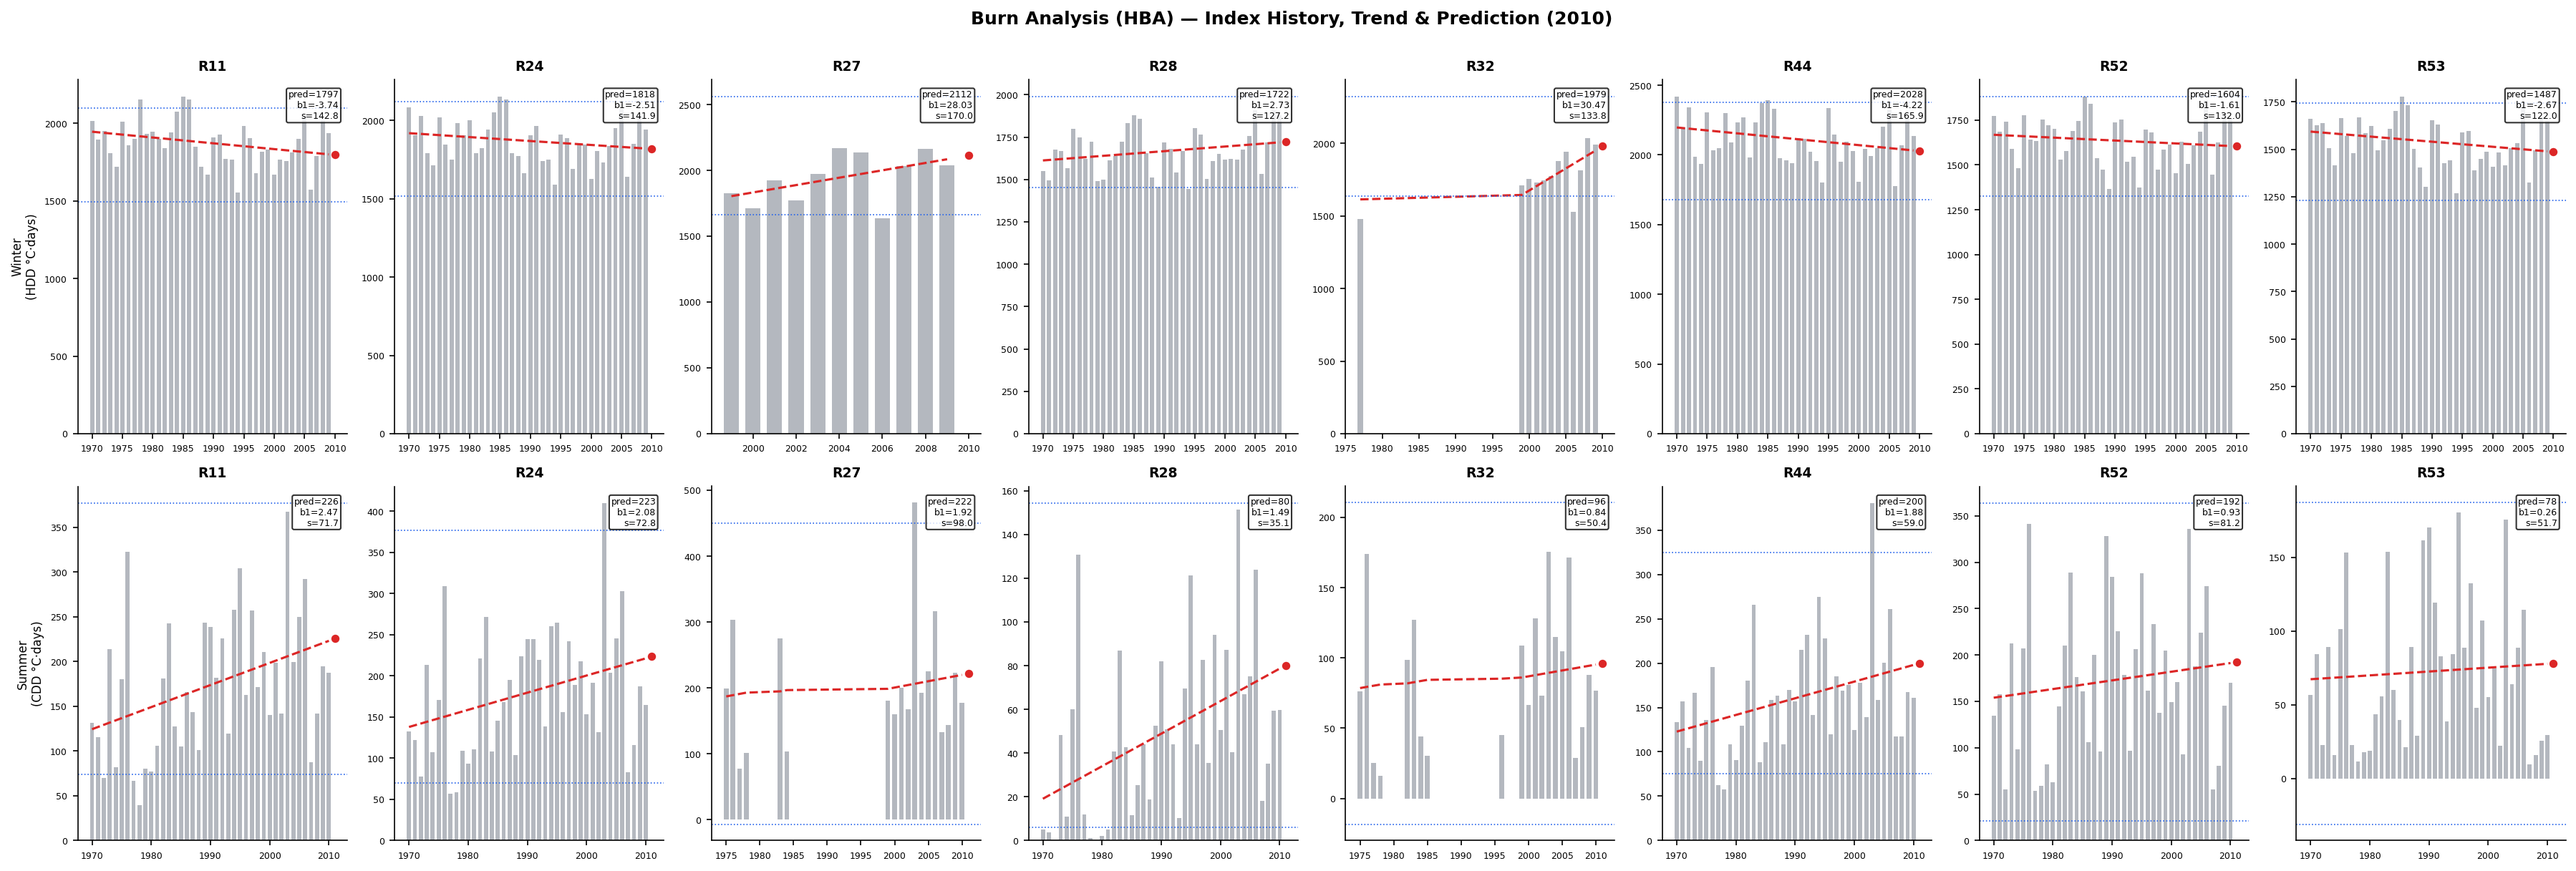
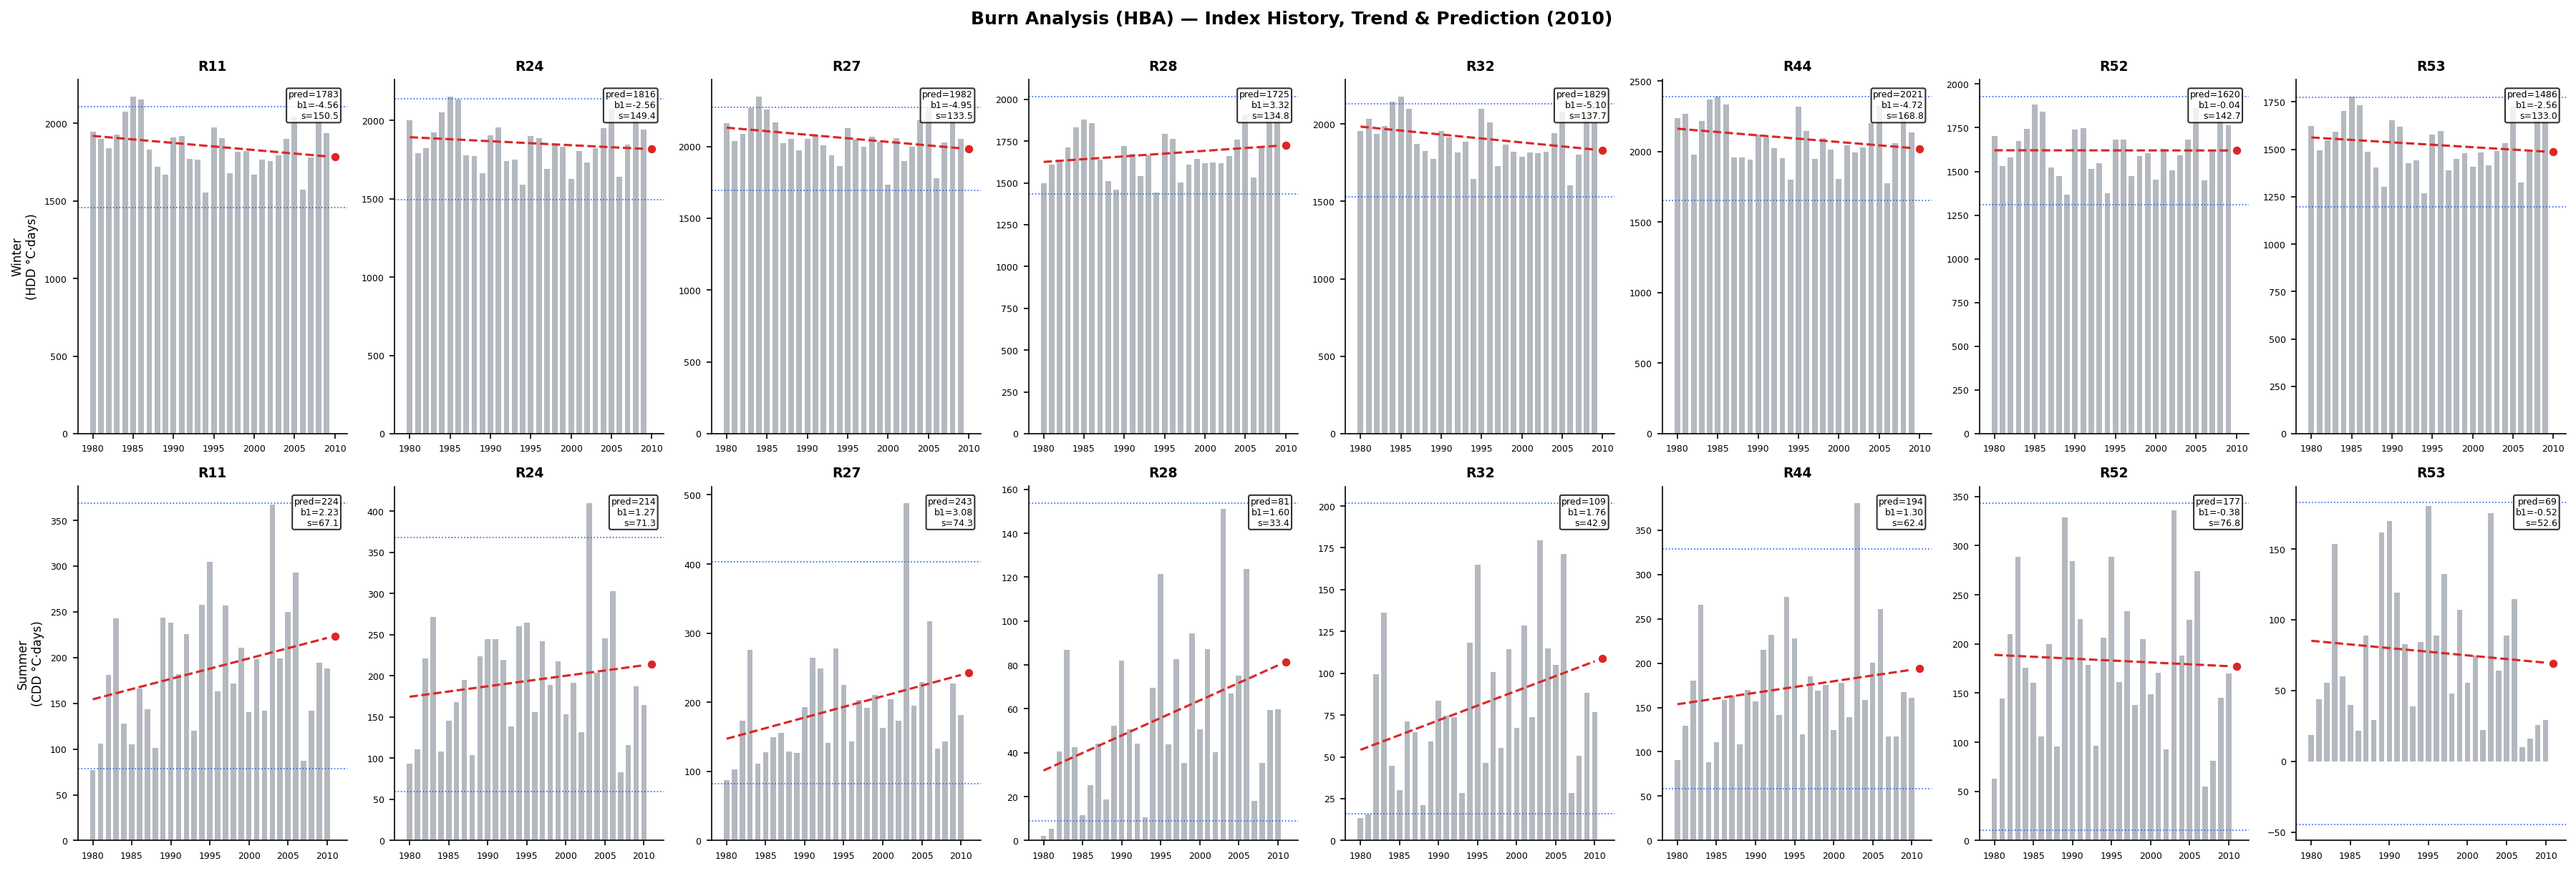
model changes to 1980

diff --git a/03_Models/AR.py b/03_Models/AR.py
@@ -10,7 +10,7 @@ where U_t ~ ARMA(p, q), d = 0 throughout.
 Design
 ───────
 Phase 1 — Specification selection  (once per region, pre-OOS)
-    Selection training : 1970 – 2008-12-31
+    Selection training : 1980-01-01 – 2008-12-31
     Validation         : 2009-01-01 – 2009-12-31
     Joint grid         : p,q ∈ 0..3, K ∈ 1..10 → 150 SARIMAX fits
                          (p=0, q=0 excluded)
@@ -54,6 +54,8 @@ PKL_DIR.mkdir(parents=True, exist_ok=True)
 SEL_TRAIN_END = pd.Timestamp("2008-12-31")
 VAL_START     = pd.Timestamp("2009-01-01")
 VAL_END       = pd.Timestamp("2009-12-31")
+TRAINING_START = pd.Timestamp("1980-01-01")
+TEMP_COL = "TAVG_imptd"
 
 # ── Phase 2: rolling OOS ──────────────────────────────────────────────────────
 CALIB_YEARS      = range(2010, 2024)
@@ -155,9 +157,9 @@ def select_spec(region: int, subset: pd.DataFrame) -> dict | None:
         print(f"  [SELECT|{region}] insufficient data")
         return None
 
-    train_y   = df_sel_train["T"].values.astype(float)
+    train_y   = df_sel_train[TEMP_COL].values.astype(float)
     train_doy = df_sel_train.index.dayofyear.values.astype(float)
-    val_y     = df_val["T"].values.astype(float)
+    val_y     = df_val[TEMP_COL].values.astype(float)
     val_doy   = df_val.index.dayofyear.values.astype(float)
 
     best_rmse = np.inf
@@ -218,11 +220,11 @@ def refit_and_forecast(region: int, calib_year: int,
     calib_end = pd.Timestamp(f"{calib_year}-12-31")
     df_calib  = subset.loc[:calib_end].copy()
 
-    if len(df_calib) < 365 or df_calib["T"].isna().any():
+    if len(df_calib) < 365 or df_calib[TEMP_COL].isna().any():
         return None
 
     t0        = datetime.datetime.now()
-    calib_y   = df_calib["T"].values.astype(float)
+    calib_y   = df_calib[TEMP_COL].values.astype(float)
     calib_doy = df_calib.index.dayofyear.values.astype(float)
     X_calib   = make_fourier(calib_doy, K)
 
@@ -307,24 +309,31 @@ def refit_and_forecast(region: int, calib_year: int,
 def main():
     overall_start = datetime.datetime.now()
 
-    raw = pd.read_csv(TEMP_DIR / "region_avg.csv", parse_dates=["date"])
+    raw = pd.read_csv(TEMP_DIR / "region_temp_extended.csv",
+                      parse_dates=["date"])
 
     region_data = {}
     for region in REGIONS:
         sub = (
             raw[raw["region_code"] == region]
-            .set_index("date")[["daily_avg_temperature"]]
+            .set_index("date")[[TEMP_COL]]
             .sort_index()
-            .rename(columns={"daily_avg_temperature": "T"})
         )
         if sub.empty:
             continue
+
+        sub = sub.loc[TRAINING_START:].copy()
+        if sub.empty:
+            print(f"  [DATA|{region}] no data from "
+                  f"{TRAINING_START.date()} forward")
+            continue
+
         full_idx = pd.date_range(
             sub.index.min(), sub.index.max(), freq="D"
         )
         sub = sub.reindex(full_idx)
         sub.index.name = "date"
-        sub["T"] = sub["T"].bfill()
+        sub[TEMP_COL] = sub[TEMP_COL].bfill()
         region_data[region] = sub
 
     n_candidates = MAX_K * ((MAX_P + 1) * (MAX_Q + 1) - 1)
@@ -332,7 +341,8 @@ def main():
     print("=" * 65)
     print("ARIMAF — Murat et al. (2018) exact joint grid")
     print("=" * 65)
-    print(f"Phase 1 sel. training : start – {SEL_TRAIN_END.date()}")
+    print(f"Phase 1 sel. training : "
+          f"{TRAINING_START.date()} – {SEL_TRAIN_END.date()}")
     print(f"Phase 1 validation    : "
           f"{VAL_START.date()} – {VAL_END.date()}")
     print(f"Joint grid            : p,q ∈ 0..{MAX_P}, K ∈ 1..{MAX_K}  "
